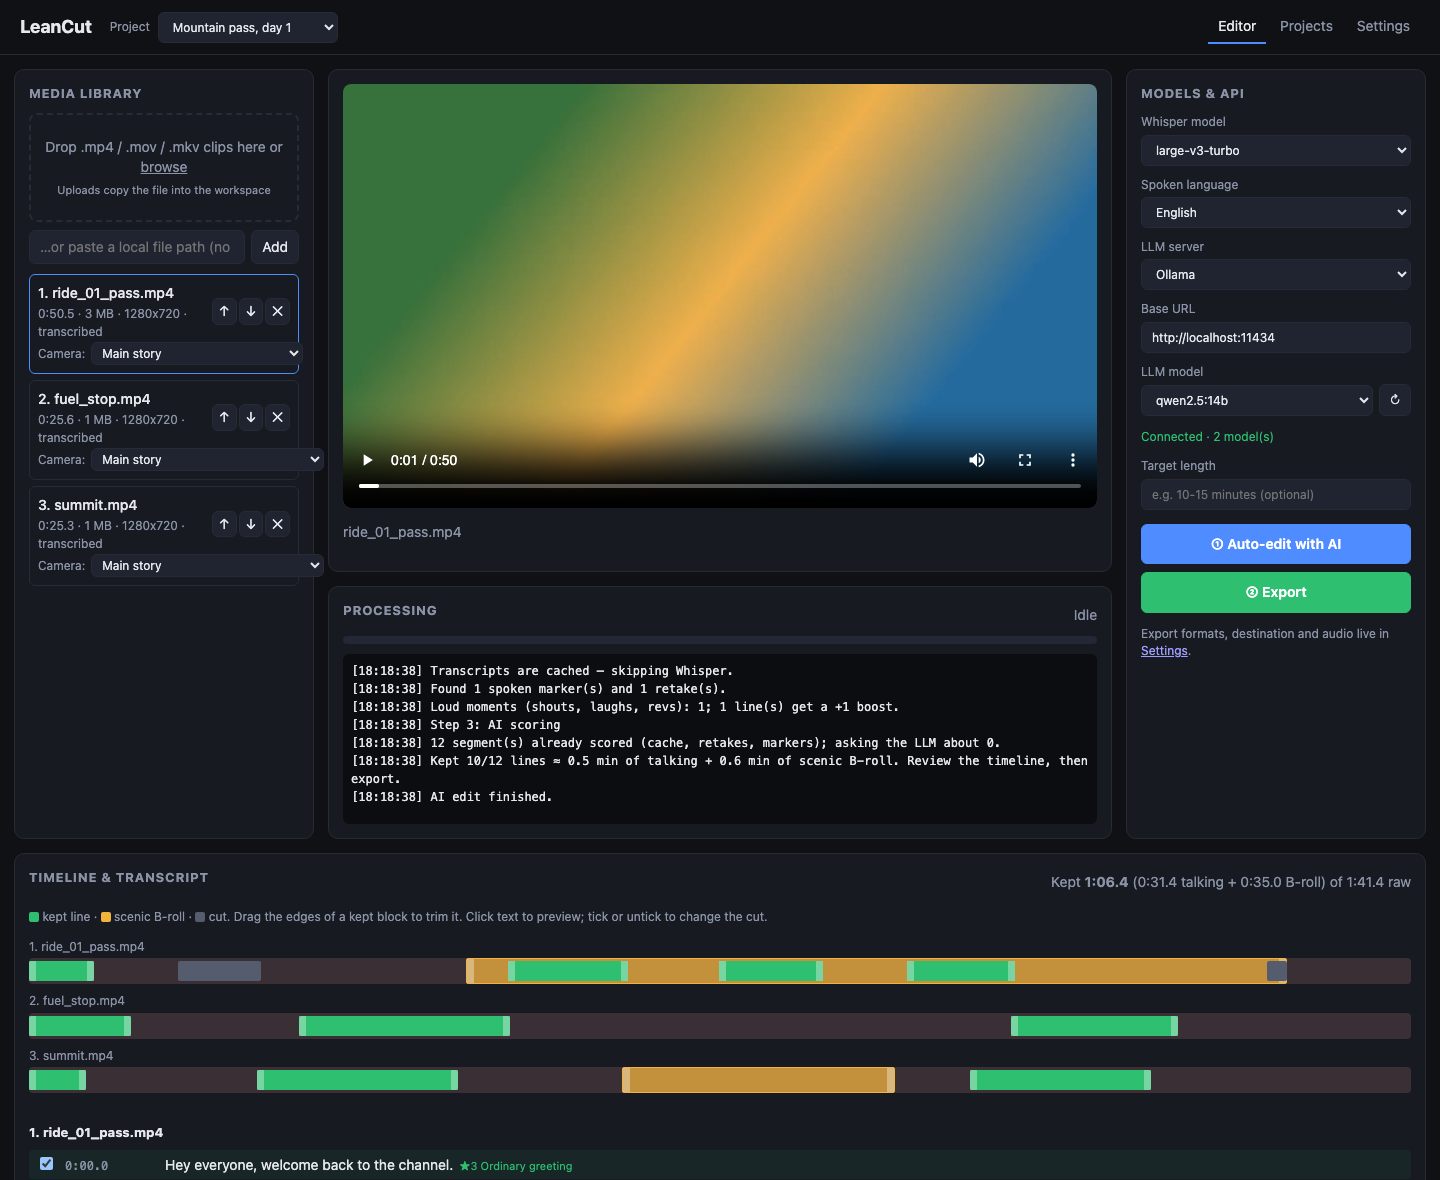
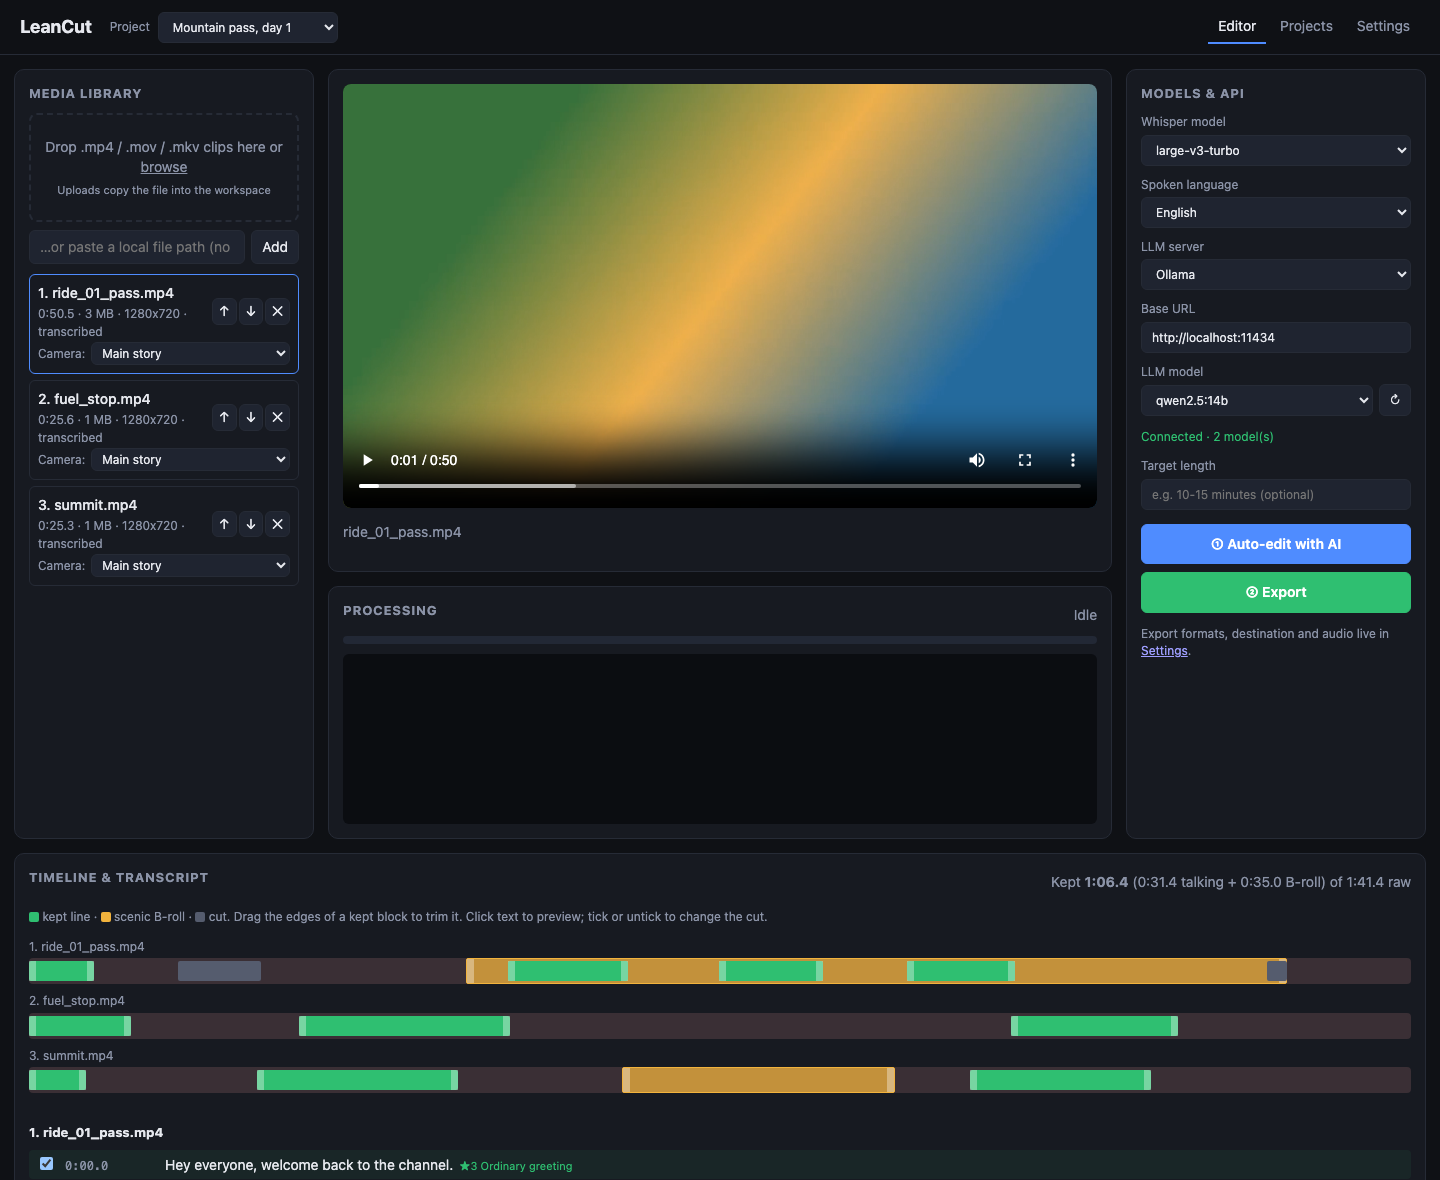
Refresh screenshots: working update check, neutral data path

diff --git a/docs/index.html b/docs/index.html
@@ -207,7 +207,7 @@ td .mono { white-space: nowrap; }
     <h2 class="lean">One window, from raw ride to upload</h2>
     <div class="shots">
       <figure><img src="assets/screens/editor.png" width="1440" height="1180" loading="lazy" alt="LeanCut editor: clip list, preview, model settings, processing log and a timeline with kept lines in green and scenic B-roll in amber"><figcaption>The editor: AI decisions on the timeline, every line scored with a reason.</figcaption></figure>
-      <figure><img src="assets/screens/settings.png" width="1440" height="1180" loading="lazy" alt="LeanCut settings: updates, export destination and formats, video encoder, audio, rider AI and models"><figcaption>Settings: export destination and formats, audio, encoder, rider AI and updates.</figcaption></figure>
+      <figure><img src="assets/screens/settings.png" width="1440" height="1140" loading="lazy" alt="LeanCut settings: updates, export destination and formats, video encoder, audio, rider AI and models"><figcaption>Settings: export destination and formats, audio, encoder, rider AI and updates.</figcaption></figure>
       <figure><img src="assets/screens/projects.png" width="1440" height="1180" loading="lazy" alt="LeanCut projects list with an overnight batch panel"><figcaption>Projects and the overnight batch queue.</figcaption></figure>
     </div>
   </div>
